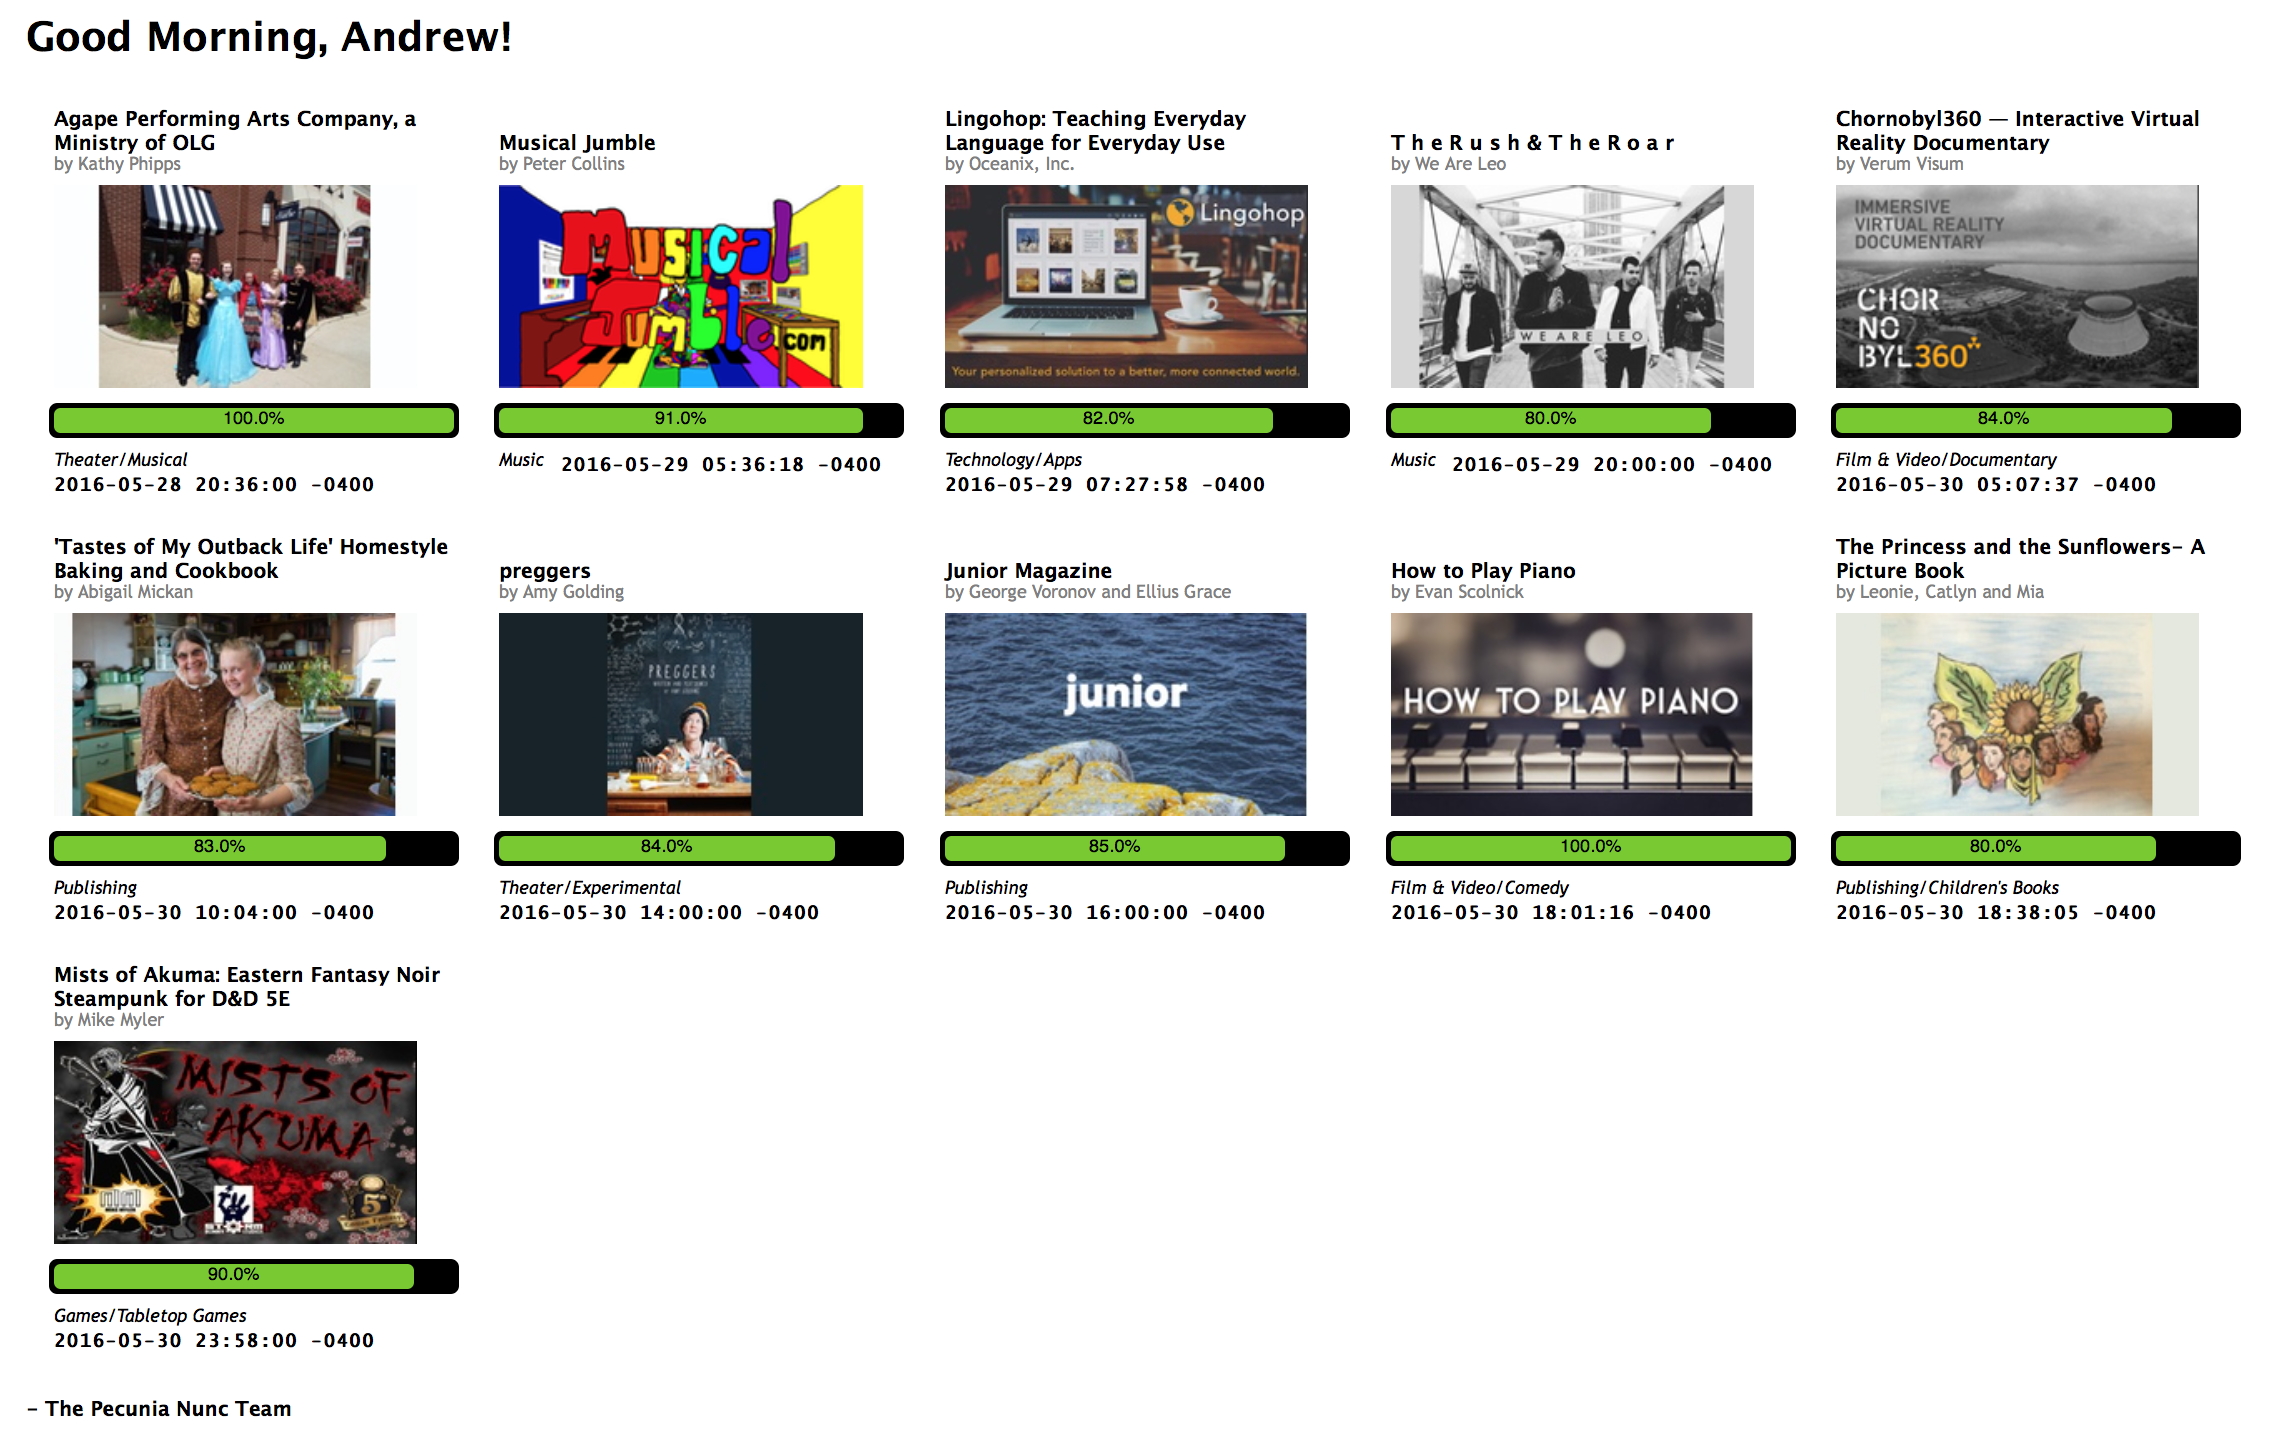
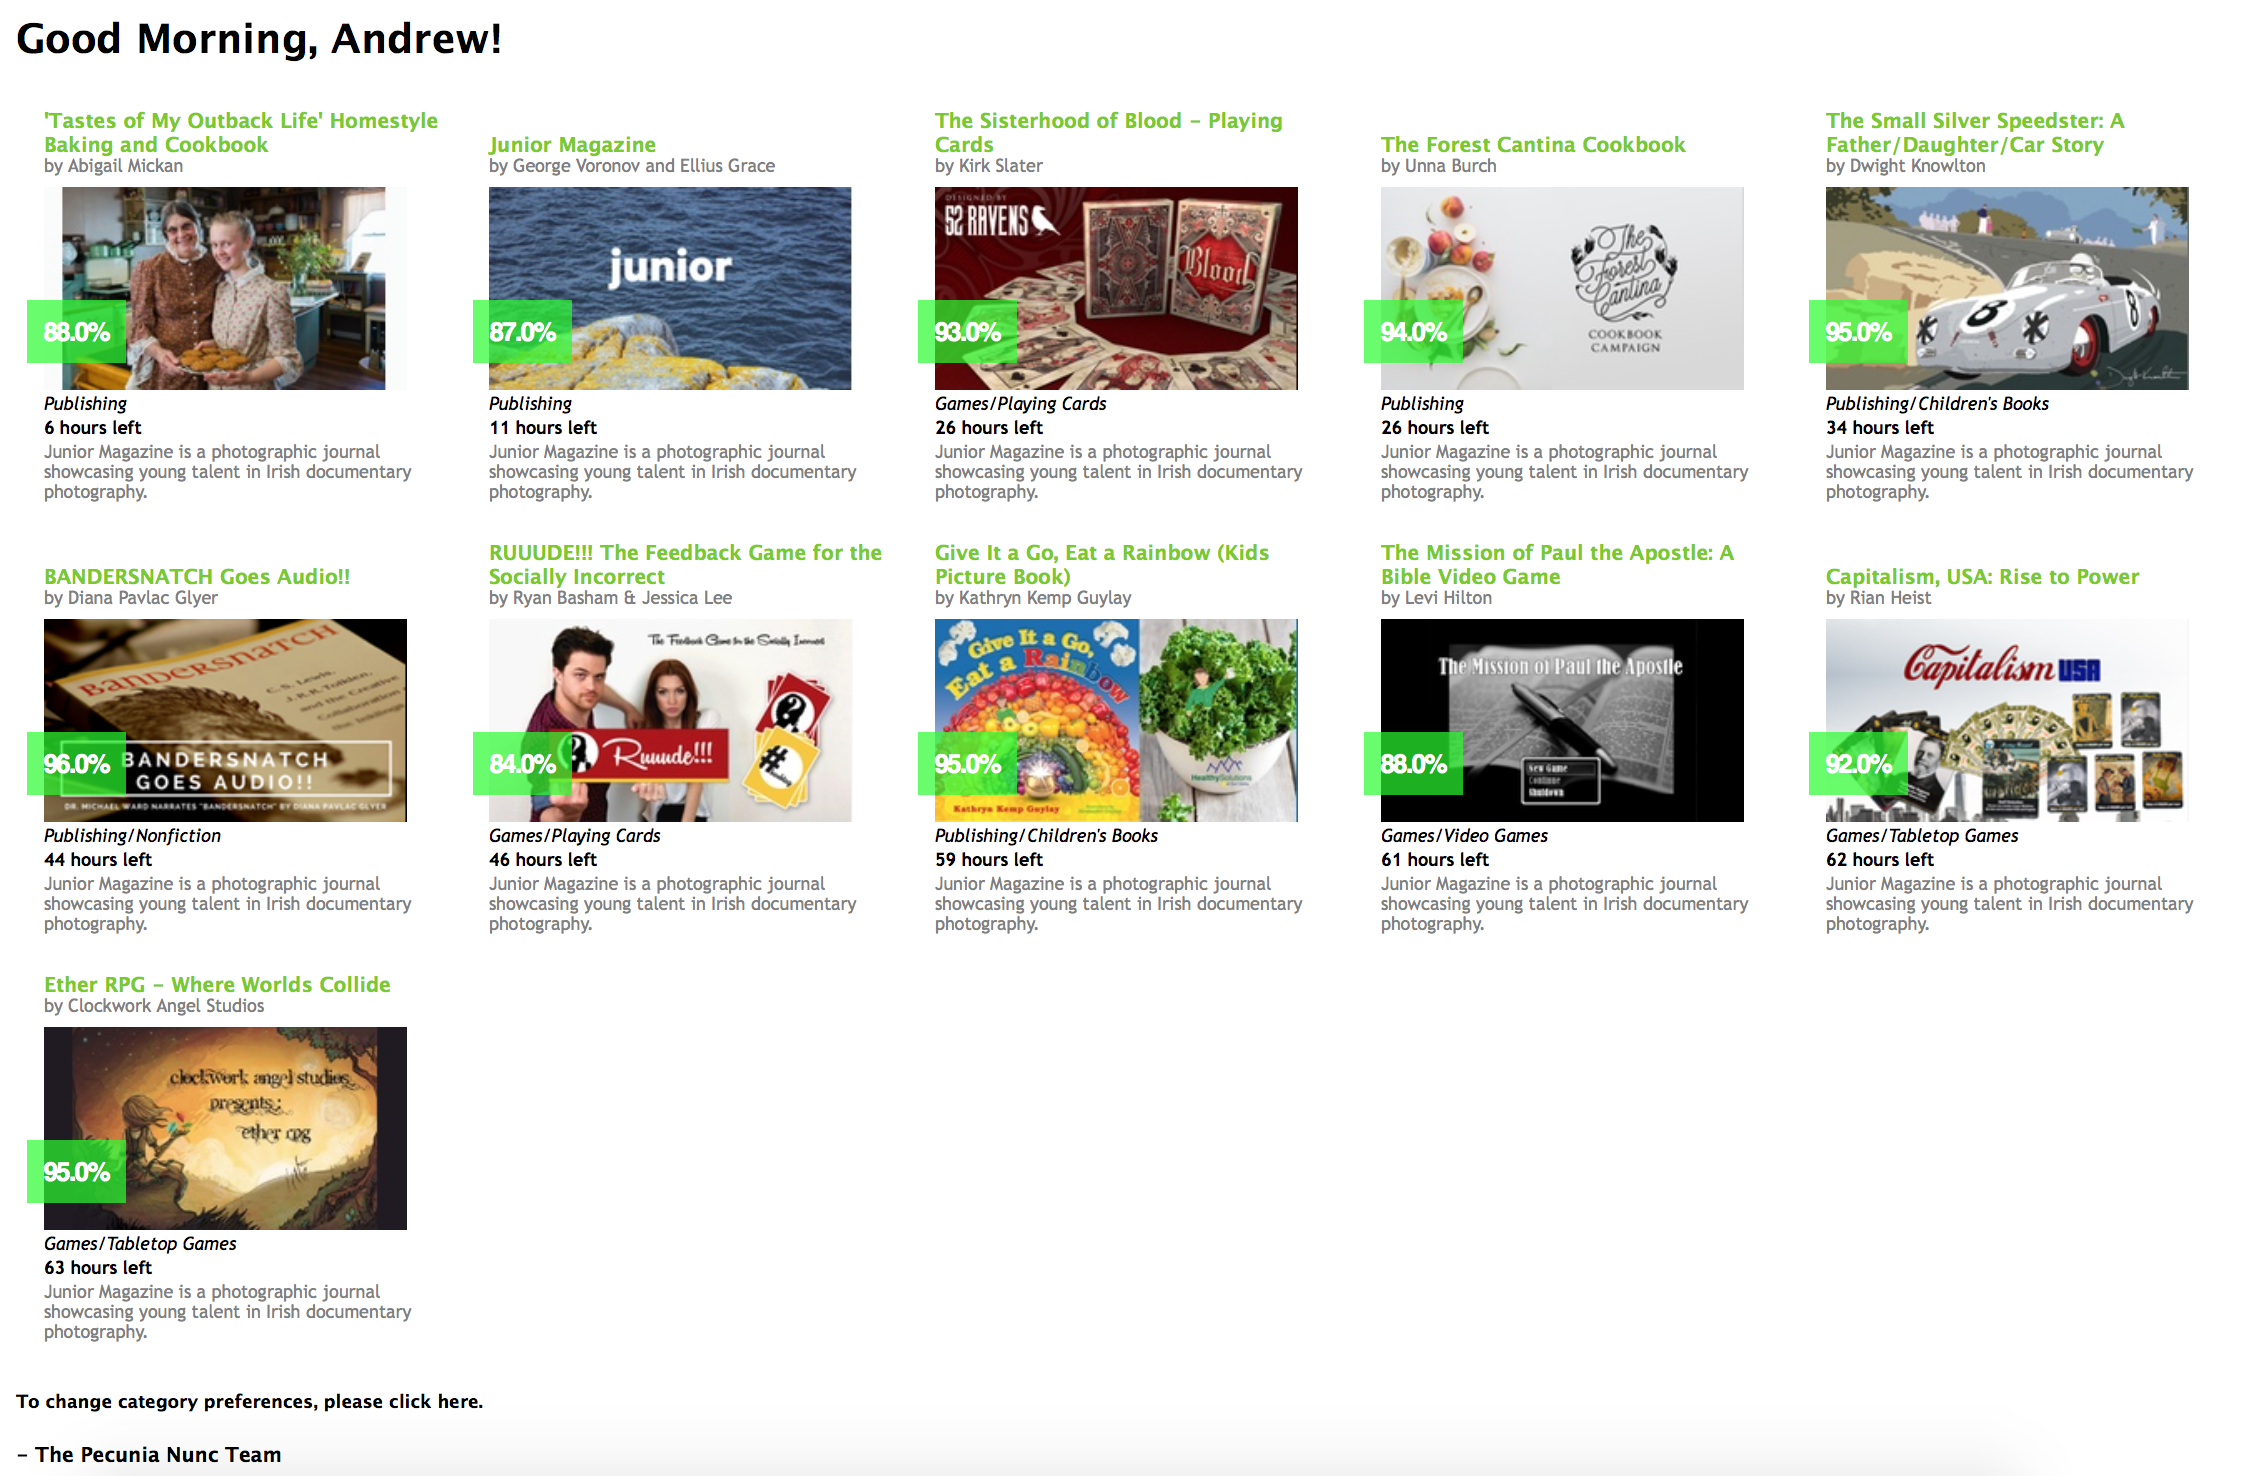
1) modify email template - remove progress bar, create overlay of pledge percentage over image 2) convert pledge deadline to number of hours left, create helper method for this operation 3) take screenshot of new email format and replace the older one

diff --git a/app/helpers/application_helper.rb b/app/helpers/application_helper.rb
@@ -10,4 +10,8 @@ module ApplicationHelper
 	def progress_bar_pledge_percent project
 		project.pledge_percent > 100? 100: project.pledge_percent
 	end
+
+	def hours_left deadline
+		((deadline - Time.now)/3600).round
+	end
 end
